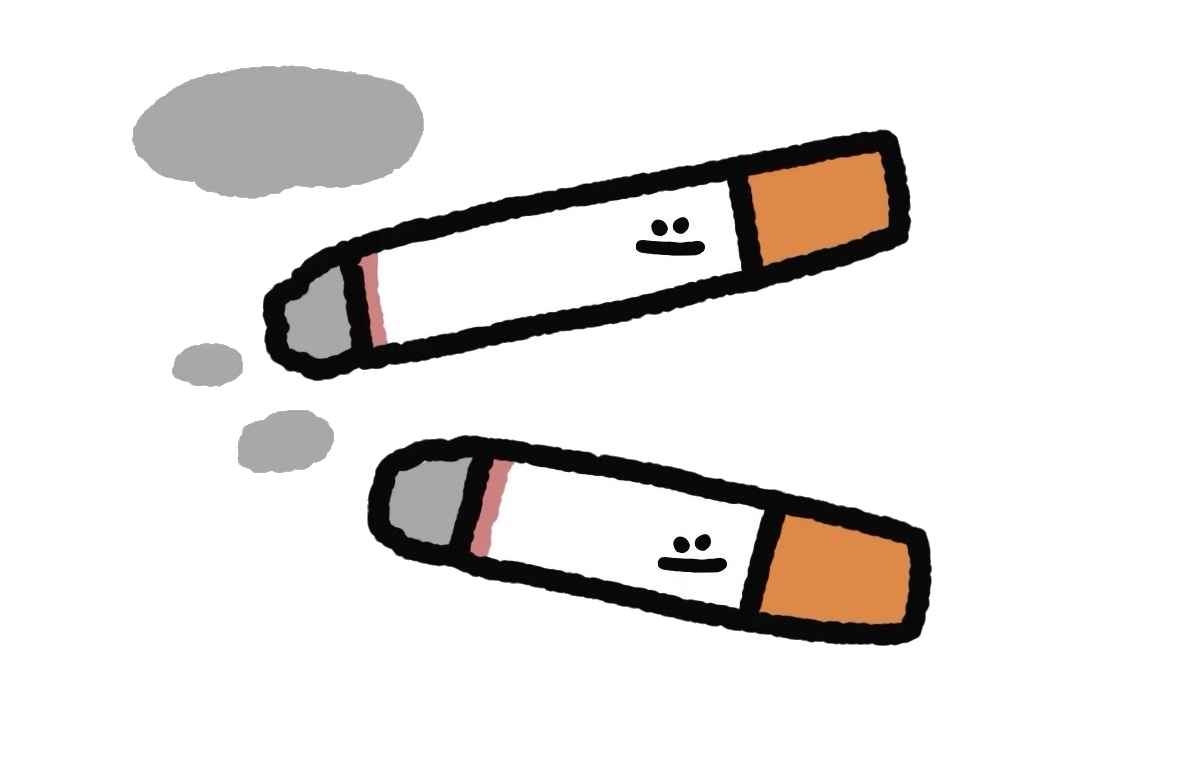
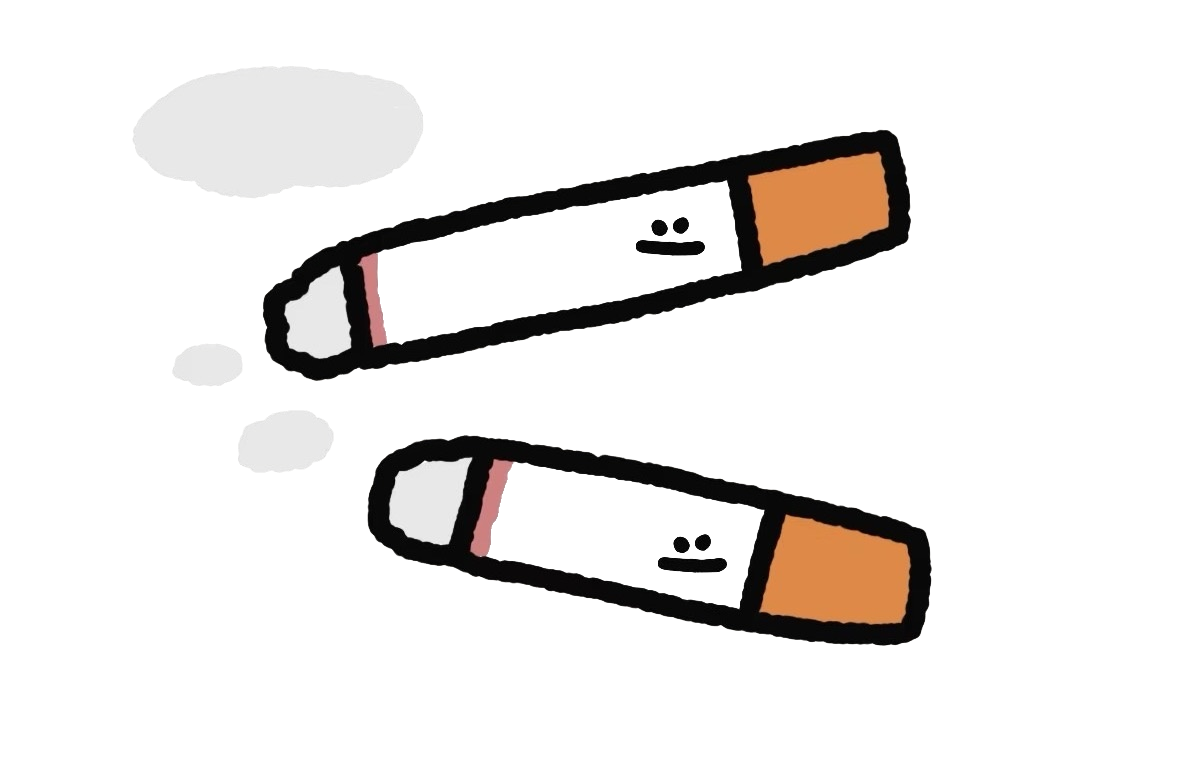
🎨 烟图标背景透明化，烟雾半透明融入绿色首页背景

diff --git a/index.html b/index.html
@@ -382,7 +382,7 @@
 
     <!-- ===== 首页 ===== -->
     <div id="page-home" class="page active">
-        <img class="cigarette-mascot" src="smoke.png?v=2" alt="今天抽什么烟">
+        <img class="cigarette-mascot" src="smoke.png?v=5" alt="今天抽什么烟">
 
         <h1 class="home-title">今天抽什么烟</h1>
         <p class="home-subtitle">今天适合来一根什么？</p>
